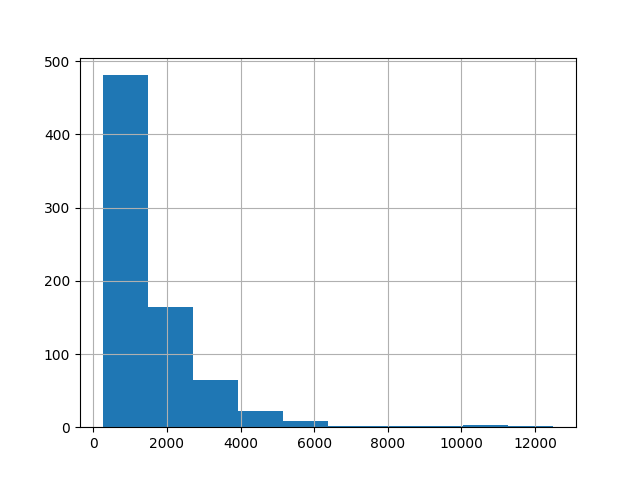
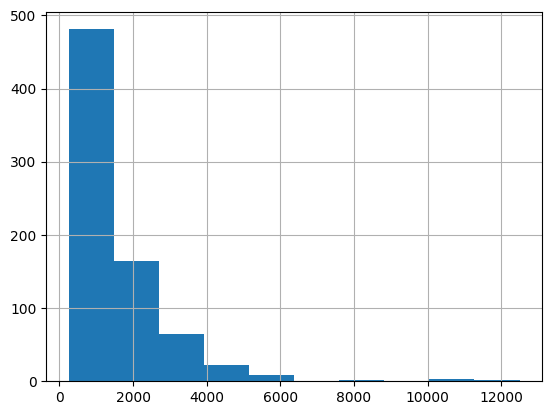
beatify

diff --git a/templates/target.html b/templates/target.html
@@ -107,7 +107,7 @@
 			<p> Imbalanced Dataset: {{ratio|string}}
 			</p>
 		{% endif %}
-			<img width=700  src="static/images/figs/target.png"><figcaption>Target Class</figcaption>
+			<img class="target_plt"  src="static/images/figs/target.png"><figcaption>Target Class</figcaption>
     <p>
 		<button type="submit" class="btn btn-primary">Next</button>
 	</p>

diff --git a/static/css/base.css b/static/css/base.css
@@ -47,8 +47,12 @@ tr:nth-child(even) {
 }
 
 .feature_plt_label{
-	width:30%
+	width:25%
 }
+.target_plt{
+	width:80%
+}
+
 
 body {
 //color: #93a1a1;

diff --git a/main.py b/main.py
@@ -86,7 +86,7 @@ def featur_pg():
     for i in range(len(features)):
         plt.clf()
         new_data[features[i]].hist()
-        plt.savefig("static/images/figs/"+str(i))
+        plt.savefig("static/images/figs/"+str(i),bbox_inches="tight",transparent=True)
     return render_template("features.html", FEATURES=features)
 
 @app.route('/features', methods=['POST'])
@@ -119,7 +119,7 @@ def target_class():
     #features = request.form.getlist("features_ls")
     plt.clf()
     data[target_ft].hist()
-    plt.savefig("static/images/figs/target")
+    plt.savefig("static/images/figs/target",bbox_inches="tight",transparent=True)
     ratio=[True if (min(data[target_ft].value_counts())/max(data[target_ft].value_counts()))<0.6 else False][0]
     pre_metric=["F1" if ratio else "Accuracy" ][0]
     return render_template("target.html",TASK=values["task"],ratio=ratio,METRICS=METRICS,pre_metric=pre_metric)
